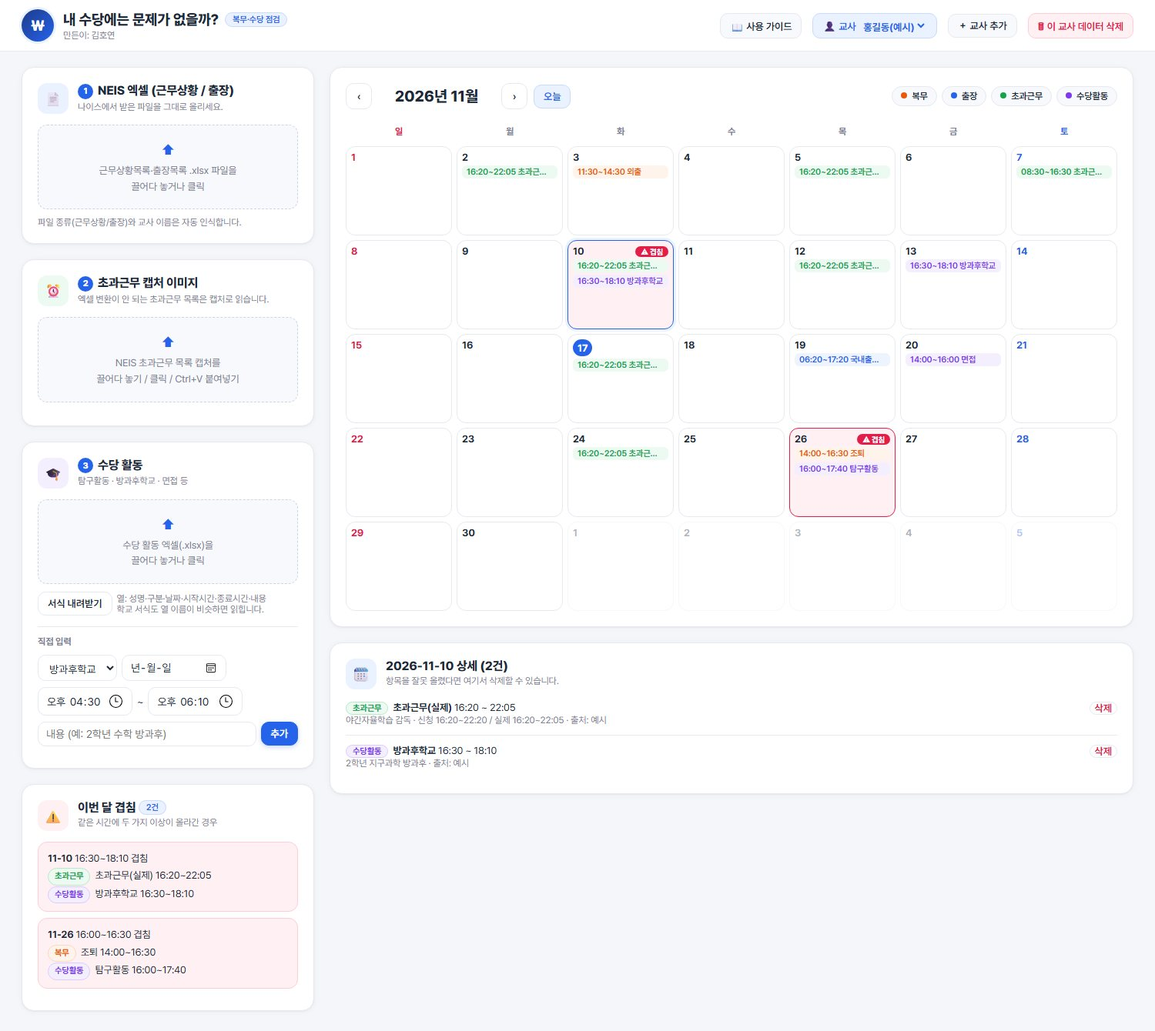
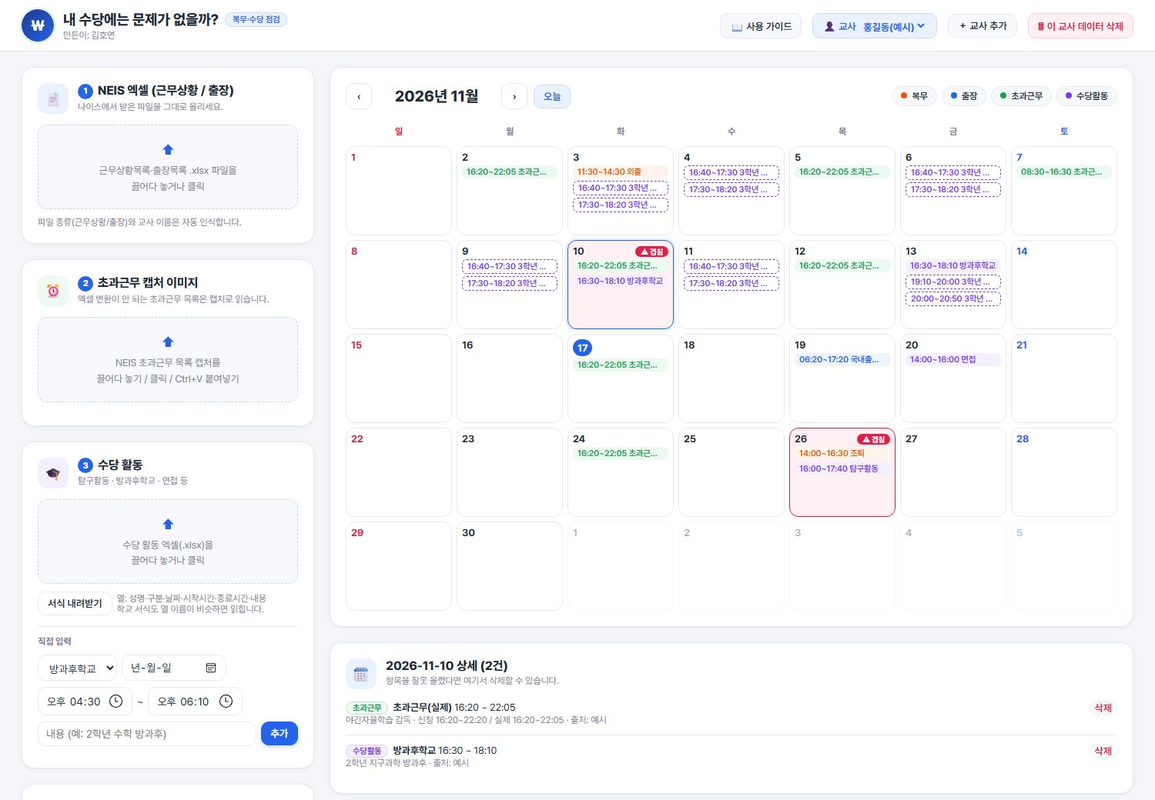
업로드

diff --git a/apps/sudang/index.html b/apps/sudang/index.html
@@ -103,6 +103,28 @@ td input:focus{background:var(--primary-soft);box-shadow:none}
 .hidden{display:none}
 footer{text-align:center;color:var(--muted);font-size:12px;padding:4px 0 24px}
 
+/* ---------- 차시 자동 배정 ---------- */
+.plan-grid{display:grid;grid-template-columns:repeat(2,minmax(0,1fr));gap:6px;margin-bottom:8px}
+.plan-grid label{font-size:11px;font-weight:700;color:var(--muted);display:flex;flex-direction:column;gap:3px}
+.plan-grid input{width:100%;padding:6px 6px}
+.dchk{display:inline-flex;align-items:center;justify-content:center;width:34px;height:30px;border:1px solid var(--line);border-radius:8px;font-size:12px;font-weight:700;cursor:pointer;user-select:none;background:#fff}
+.dchk input{display:none}
+.dchk.on{background:var(--primary);color:#fff;border-color:var(--primary)}
+.pl-sum{margin:14px 0 8px;padding:10px 12px;border-radius:12px;font-size:13px;line-height:1.6;background:var(--ot-bg);border:1px solid #bbe7c9}
+.pl-sum.short{background:var(--leave-bg);border-color:#fed7bd}
+.pl-list{max-height:260px;overflow-y:auto;margin-bottom:8px}
+.pl-list td{font-size:12px}
+details.pl-skip{font-size:12px;color:var(--muted);margin-bottom:10px}
+details.pl-skip summary{cursor:pointer;font-weight:700}
+details.pl-skip div{padding:2px 0 2px 10px}
+.chip.plan{background:#fff;border:1px dashed currentColor}
+.slot-box{border:1px solid var(--line);background:var(--soft);border-radius:12px;padding:10px;margin-bottom:8px}
+.slot-title{font-size:12px;font-weight:800;margin-bottom:6px}
+.slot{display:flex;align-items:center;gap:5px;margin-bottom:5px}
+.slot .snum{flex:none;font-size:11px;font-weight:800;color:var(--primary);background:var(--primary-soft);border-radius:999px;padding:2px 8px}
+.slot input{flex:1;min-width:0;padding:5px 6px}
+.slot .sdel{flex:none;width:28px;height:28px;padding:0;color:var(--muted)}
+
 /* ---------- 사용 가이드 ---------- */
 .modal{position:fixed;inset:0;z-index:50;background:rgba(15,23,42,.45);display:flex;align-items:flex-start;justify-content:center;padding:40px 16px;overflow-y:auto}
 .modal.hidden{display:none}
@@ -199,6 +221,37 @@ kbd{background:#fff;border:1px solid #cfd6e2;border-bottom-width:2px;border-radi
     </div>
 
     <div class="card">
+      <div class="card-head"><div class="ico green">🧩</div><div>
+        <h2><span class="step">4</span>차시 자동 배정</h2>
+        <p>복무·출장·초과근무·방과후와 겹치지 않는 날로 계획을 세웁니다.</p></div></div>
+      <div class="row">
+        <input id="plName" placeholder="프로그램 이름 (예: 면접 지도)" style="flex:1;min-width:0">
+        <select id="plType"><option>면접지도</option><option>탐구지도</option><option>방과후학교</option><option>기타</option></select>
+      </div>
+      <div class="plan-grid">
+        <label>총 차시<input type="number" id="plN" value="25" min="1" max="300"></label>
+        <label>1차시(분)<input type="number" id="plDur" value="50" min="10" max="300" step="5"></label>
+        <label>하루 최대<input type="number" id="plPerDay" value="1" min="1" max="10"></label>
+      </div>
+      <div class="slot-box">
+        <div class="slot-title">가능한 시간대 <span class="muted">(위에서부터 우선)</span></div>
+        <div id="plSlots"></div>
+        <button id="plAddSlot" style="width:100%;margin-top:4px">＋ 시간대 추가</button>
+        <div class="muted" style="margin-top:6px;line-height:1.6">· <b>끝을 비우면</b> 그 시각에 시작 (예: 16:40)<br>· <b>끝을 넣으면</b> 그 범위 안에서 10분 단위로 빈 시간을 찾음 (예: 16:30 ~ 21:00)</div>
+      </div>
+      <div class="row">
+        <input type="date" id="plFrom" style="flex:1;min-width:0"> ~ <input type="date" id="plTo" style="flex:1;min-width:0">
+      </div>
+      <div class="row" id="plDays"></div>
+      <div class="row">
+        <input id="plExclude" placeholder="제외할 날짜 (예: 2026-12-03, 12/10~12/12)" style="flex:1;min-width:0">
+      </div>
+      <label class="muted" style="display:block;margin-bottom:10px"><input type="checkbox" id="plWhole" style="vertical-align:-2px"> 일정이 하나라도 있는 날은 통째로 피하기</label>
+      <button class="primary" id="plRun" style="width:100%">자동 배정 미리보기</button>
+      <div id="plResult"></div>
+    </div>
+
+    <div class="card">
       <div class="card-head"><div class="ico red">⚠</div><div>
         <h2>이번 달 겹침 <span id="confCount" class="badge" style="vertical-align:2px"></span></h2>
         <p>같은 시간에 두 가지 이상이 올라간 경우</p></div></div>
@@ -264,6 +317,14 @@ kbd{background:#fff;border:1px solid #cfd6e2;border-bottom-width:2px;border-radi
       </div></div>
 
       <div class="g-step"><div class="num">6</div><div>
+        <h3>차시 자동 배정 (계획 세우기)</h3>
+        <p><b>④ 차시 자동 배정</b>에 프로그램 이름, 총 차시(예: 25), 1차시 시간, 기간, 요일, <b>가능한 시간대</b>를 넣고 <b>자동 배정 미리보기</b>를 누르세요.</p>
+        <p>이미 올린 <b>복무·출장·초과근무·방과후 등과 시간이 겹치지 않는 날</b>에만 차례로 배정됩니다. 시험·행사 날은 <b>제외할 날짜</b>에 적어 두세요.</p>
+        <p>시간대는 여러 개 넣을 수 있습니다. 예를 들어 <b>1안 16:40</b>, <b>2안 19:10</b>을 넣으면 16:40이 막힌 날은 19:10으로 배정합니다. 끝 시각까지 넣으면(예: 16:30 ~ 21:00) 그 범위 안에서 비어 있는 시간을 10분 단위로 찾아 줍니다.</p>
+        <p>결과가 괜찮으면 <b>달력에 추가</b>(점선으로 표시) 또는 <b>엑셀로 저장</b>을 누르세요. 지울 때는 날짜를 눌러 <b>이 계획 전체 삭제</b>를 누르면 됩니다.</p>
+      </div></div>
+
+      <div class="g-step"><div class="num">7</div><div>
         <h3>달력에서 겹침 확인</h3>
         <p>시간이 겹치는 날은 달력 칸이 <b style="color:var(--warn)">빨간색</b>이 되고 <b>⚠ 겹침</b> 표시가 붙습니다. 왼쪽 <b>이번 달 겹침</b>에서 몇 시부터 몇 시까지 겹치는지 볼 수 있고, 날짜를 누르면 상세 내용이 나옵니다.</p>
       </div></div>
@@ -653,7 +714,7 @@ function render(){
     const conf = conflictsOf(list);
     if (key.startsWith(prefix)) monthConf.push(...conf);
     if (k>=35 && d.getMonth()!==viewM) break;
-    const chips = list.map(i => `<span class="chip ${i.kind}" title="${esc(i.title+' '+i.memo)}">${i.allDay?'종일':i.start+'~'+(i.end==='24:00'?'':i.end)} ${esc(i.title)}</span>`).join('');
+    const chips = list.map(i => `<span class="chip ${i.kind} ${i.plan?'plan':''}" title="${esc(i.title+' '+i.memo)}">${i.allDay?'종일':i.start+'~'+(i.end==='24:00'?'':i.end)} ${esc(i.title)}</span>`).join('');
     html += `<div class="day ${d.getMonth()!==viewM?'other':''} ${conf.length?'conflict':''} ${key===selDate?'sel':''} ${key===ymd(new Date())?'today':''}" data-d="${key}">
       <div class="num"><span style="color:${d.getDay()===0?'var(--warn)':d.getDay()===6?'var(--trip)':''}">${d.getDate()}</span>${conf.length?'<span class="flag">⚠ 겹침</span>':''}</div>${chips}</div>`;
   }
@@ -676,8 +737,14 @@ function render(){
   dv.innerHTML = list.map(i => `<div class="detail-item">
       <span class="tag ${i.kind}">${KIND_LABEL[i.kind]}</span><b>${esc(i.title)}</b> ${i.allDay?'종일':i.start+' ~ '+i.end}
       <button class="danger" style="float:right;padding:0 6px" data-del="${i.id}">삭제</button>
+      ${i.planId ? `<button class="danger" style="float:right;padding:0 6px;margin-right:4px" data-delplan="${i.planId}">이 계획 전체 삭제</button>` : ''}
       <div class="muted">${esc(i.memo)} ${i.extra?'· '+esc(i.extra):''} · 출처: ${esc(i.source||'')}</div></div>`).join('')
       || '<div class="muted">등록된 내용이 없습니다.</div>';
+  dv.querySelectorAll('[data-delplan]').forEach(b => b.onclick = () => {
+    const pid = b.dataset.delplan, cnt = db.items.filter(x => x.planId === pid).length;
+    if (!confirm(`이 계획의 ${cnt}차시를 모두 달력에서 지울까요?`)) return;
+    db.items = db.items.filter(x => x.planId !== pid); save(); render();
+  });
   dv.querySelectorAll('[data-del]').forEach(b => b.onclick = () => {
     const it = db.items.find(x => x.id === b.dataset.del);
     db.items = db.items.filter(x => it.gid ? x.gid !== it.gid : x.id !== it.id);
@@ -730,6 +797,155 @@ document.getElementById('actAdd').onclick = () => {
     title: document.getElementById('actType').value, memo: document.getElementById('actMemo').value, source:'직접 입력' });
   save(); viewY=+d.slice(0,4); viewM=+d.slice(5,7)-1; selDate=d; render();
 };
+
+/* ===================== 차시 자동 배정 ===================== */
+const DOW = ['일','월','화','수','목','금','토'];
+(function initPlanForm(){
+  const t = new Date(); t.setDate(t.getDate()+1);
+  const e = new Date(t); e.setDate(e.getDate()+60);
+  document.getElementById('plFrom').value = ymd(t);
+  document.getElementById('plTo').value = ymd(e);
+  document.getElementById('plDays').innerHTML = DOW.map((d,i) =>
+    `<label class="dchk ${i>=1&&i<=5?'on':''}"><input type="checkbox" value="${i}" ${i>=1&&i<=5?'checked':''}>${d}</label>`).join('');
+  document.querySelectorAll('#plDays input').forEach(c => c.onchange = () => c.parentElement.classList.toggle('on', c.checked));
+  addSlot('16:40',''); addSlot('19:10','');
+})();
+
+function addSlot(s='', e=''){
+  const box = document.getElementById('plSlots');
+  box.insertAdjacentHTML('beforeend', `<div class="slot"><span class="snum"></span>
+    <input type="time" class="sS" value="${s}" title="시작"> ~ <input type="time" class="sE" value="${e}" title="끝 (비우면 그 시각에 시작)">
+    <button class="sdel" title="삭제">✕</button></div>`);
+  renumberSlots();
+}
+function renumberSlots(){
+  document.querySelectorAll('#plSlots .slot').forEach((el,i) => {
+    el.querySelector('.snum').textContent = `${i+1}안`;
+    el.querySelector('.sdel').onclick = () => { el.remove(); renumberSlots(); };
+  });
+}
+document.getElementById('plAddSlot').onclick = () => addSlot('', '');
+
+/* 시간대 목록 → [{s,e}] (e 없으면 고정 시작) */
+function readSlots(){
+  return [...document.querySelectorAll('#plSlots .slot')].map(el => ({
+    s: el.querySelector('.sS').value, e: el.querySelector('.sE').value
+  })).filter(x => x.s && (!x.e || x.e > x.s));
+}
+/* 한 시간대에서 k차시를 넣어볼 시작 후보 (분) */
+function slotStarts(slot, len){
+  const s = toMin(slot.s);
+  if (!slot.e) return [s];
+  const e = toMin(slot.e), out = [];
+  for (let t = s; t + len <= e; t += 10) out.push(t);
+  return out;
+}
+
+/* "2026-12-03, 12/10~12/12" → 날짜 Set */
+function parseExclude(text){
+  const set = new Set();
+  for (const part of String(text).split(/[,\n]/)){
+    const [a,b] = part.split('~').map(s => s && s.trim());
+    if (!a) continue;
+    const sd = xlDate(a); if (!sd) continue;
+    let ed = b ? xlDate(b) : sd;
+    if (b && !ed) ed = sd;
+    const d = new Date(sd+'T00:00'), end = new Date(ed+'T00:00');
+    for (let g=0; d<=end && g<400; g++){ set.add(ymd(d)); d.setDate(d.getDate()+1); }
+  }
+  return set;
+}
+
+function planSchedule(o){
+  const byDate = {};
+  teacherItems().forEach(i => (byDate[i.date] ||= []).push(i));
+  const out = [], skipped = [];
+  let left = o.n;
+  const d = new Date(o.from+'T00:00'), end = new Date(o.to+'T00:00');
+  for (let g=0; d<=end && left>0 && g<1000; g++, d.setDate(d.getDate()+1)){
+    const key = ymd(d);
+    if (!o.days.includes(d.getDay())) continue;
+    if (o.exclude.has(key)){ skipped.push({ date:key, why:'제외 날짜' }); continue; }
+    const list = byDate[key] || [];
+    if (o.whole && list.length){ skipped.push({ date:key, why: list.map(i => `${KIND_LABEL[i.kind]} ${i.title}`).join(', ') }); continue; }
+    // 하루 최대 차시부터 줄여가며, 1안 → 2안 … 순서로 들어갈 수 있는 첫 시간을 찾음
+    let placed = false, lastHit = null;
+    for (let k=Math.min(o.perDay,left); k>=1 && !placed; k--){
+      const len = k*o.dur;
+      for (let si=0; si<o.slots.length && !placed; si++){
+        for (const s of slotStarts(o.slots[si], len)){
+          const e = s + len;
+          if (e > 1440) break;
+          const hit = list.find(i => Math.max(s, toMin(i.start)) < Math.min(e, toMin(i.end)));
+          if (hit){ lastHit = hit; continue; }
+          for (let j=0;j<k;j++) out.push({ no:o.n-left+1+j, date:key, slot:si+1, start:fromMin(s+j*o.dur), end:fromMin(s+(j+1)*o.dur) });
+          left -= k; placed = true; break;
+        }
+      }
+    }
+    if (!placed) skipped.push({ date:key, why: lastHit ? `${KIND_LABEL[lastHit.kind]} ${lastHit.title} ${lastHit.start}~${lastHit.end}` : '시간대에 차시가 들어갈 자리 없음' });
+  }
+  return { out, skipped, left };
+}
+
+let lastPlan = null;
+function runPlan(){
+  if (!db.current) return alert('먼저 교사를 추가하세요');
+  const v = id => document.getElementById(id).value;
+  const o = {
+    name: v('plName').trim() || v('plType'), type: v('plType'),
+    n: Math.max(1, +v('plN')||0), dur: Math.max(10, +v('plDur')||0), perDay: Math.max(1, +v('plPerDay')||1),
+    slots: readSlots(), from: v('plFrom'), to: v('plTo'),
+    days: [...document.querySelectorAll('#plDays input:checked')].map(c => +c.value),
+    exclude: parseExclude(v('plExclude')), whole: document.getElementById('plWhole').checked
+  };
+  if (!o.from || !o.to || o.from > o.to) return alert('기간을 확인하세요');
+  if (!o.days.length) return alert('요일을 하나 이상 고르세요');
+  if (!o.slots.length) return alert('가능한 시간대를 하나 이상 넣으세요 (범위는 끝이 시작보다 늦어야 합니다)');
+  const r = planSchedule(o);
+  lastPlan = { o, ...r };
+  const box = document.getElementById('plResult');
+  const first = r.out[0], last = r.out[r.out.length-1];
+  const dw = k => DOW[new Date(k+'T00:00').getDay()];
+  box.innerHTML = `
+    <div class="pl-sum ${r.left?'short':''}">
+      <b>${esc(o.name)}</b> ${o.n}차시 중 <b>${r.out.length}차시</b> 배정
+      ${first ? `<br>${first.date.slice(5)}(${dw(first.date)}) ~ ${last.date.slice(5)}(${dw(last.date)}), ${new Set(r.out.map(x=>x.date)).size}일` : ''}
+      ${r.left ? `<br>⚠ 기간 안에 빈 날이 부족해 <b>${r.left}차시</b>를 배정하지 못했습니다. 기간을 늘리거나 하루 최대 차시·요일을 바꿔보세요.` : ''}
+    </div>
+    ${r.out.length ? `<div class="pl-list"><table><thead><tr><th>차시</th><th>날짜</th><th>시간</th><th>안</th></tr></thead><tbody>
+      ${r.out.map(x => `<tr><td>${x.no}</td><td>${x.date}(${dw(x.date)})</td><td>${x.start}~${x.end}</td><td>${x.slot}안</td></tr>`).join('')}
+    </tbody></table></div>` : ''}
+    ${r.skipped.length ? `<details class="pl-skip"><summary>피한 날 ${r.skipped.length}일 보기</summary>
+      ${r.skipped.map(s => `<div>${s.date.slice(5)}(${dw(s.date)}) · ${esc(s.why)}</div>`).join('')}</details>` : ''}
+    ${r.out.length ? `<div class="row"><button class="primary" id="plApply" style="flex:1">달력에 추가</button><button id="plXlsx">엑셀로 저장</button></div>` : ''}`;
+  if (!r.out.length) return;
+  document.getElementById('plApply').onclick = applyPlan;
+  document.getElementById('plXlsx').onclick = exportPlan;
+}
+
+function applyPlan(){
+  if (!lastPlan) return;
+  const { o, out } = lastPlan, planId = uid();
+  out.forEach(x => db.items.push({ id:uid(), planId, plan:true, teacher:db.current, kind:'act', date:x.date, start:x.start, end:x.end,
+    title:o.name, memo:`${o.type} ${x.no}/${o.n}차시 (자동 배정 계획)`, source:'차시 자동 배정' }));
+  save();
+  viewY = +out[0].date.slice(0,4); viewM = +out[0].date.slice(5,7)-1; selDate = out[0].date;
+  render();
+  document.getElementById('plResult').innerHTML = `<div class="pl-sum">✔ ${out.length}차시를 달력에 추가했습니다. 점선 표시가 계획입니다.<br>지우려면 날짜를 눌러 <b>이 계획 전체 삭제</b>를 누르세요.</div>`;
+  lastPlan = null;
+}
+
+function exportPlan(){
+  const { o, out } = lastPlan;
+  const aoa = [['차시','날짜','요일','시작','종료','프로그램','구분','담당']];
+  out.forEach(x => aoa.push([x.no, x.date, DOW[new Date(x.date+'T00:00').getDay()], x.start, x.end, o.name, o.type, db.current]));
+  const ws = XLSX.utils.aoa_to_sheet(aoa);
+  ws['!cols'] = [{wch:6},{wch:12},{wch:6},{wch:8},{wch:8},{wch:20},{wch:10},{wch:10}];
+  const wb = XLSX.utils.book_new(); XLSX.utils.book_append_sheet(wb, ws, '차시 계획');
+  XLSX.writeFile(wb, `${o.name} ${o.n}차시 계획.xlsx`);
+}
+document.getElementById('plRun').onclick = runPlan;
 
 /* 사용 가이드: 처음 열 때 자동 표시 */
 const GKEY = 'sudang-guide-hide';

diff --git a/tools/sudang-guide.html b/tools/sudang-guide.html
@@ -49,12 +49,16 @@
           NEIS의 <b class="text-white">근무상황(연가·조퇴·외출) · 출장 · 초과근무</b>와 <b class="text-white">방과후학교 · 탐구활동 · 면접</b> 같은 수당 활동을 한 달력에 모아,
           <b class="text-white">같은 시간에 겹친 기록</b>이 있는지 빨간색으로 알려 주는 점검 프로그램입니다. 수당 정산 전에 한 번 확인해 보세요.
         </p>
+        <p class="inline-flex items-start gap-2 text-sm bg-white/10 border border-white/15 rounded-2xl px-4 py-3 text-slate-200 break-keep max-w-2xl">
+          <span class="px-2 py-0.5 rounded-md bg-emerald-400 text-slate-950 text-[11px] font-black shrink-0">NEW ver.02</span>
+          <span><b class="text-white">차시 자동 배정</b> — 면접·탐구 지도처럼 여러 차시로 운영하는 프로그램을, 이미 있는 일정과 겹치지 않는 날로 자동 계획해 줍니다. <a href="#s5" class="underline font-bold text-emerald-300">자세히 보기</a></span>
+        </p>
         <div class="flex flex-wrap gap-3 pt-2">
           <a href="../apps/sudang/index.html" target="_blank" rel="noopener" class="px-6 py-4 rounded-2xl bg-rose-500 hover:bg-rose-400 text-white font-black text-sm transition shadow-lg shadow-rose-500/30 inline-flex items-center gap-2">
             <i data-lucide="play" class="w-5 h-5"></i>프로그램 바로 열기
           </a>
           <a href="../downloads/proctor/%EC%88%98%EB%8B%B9%EA%B4%80%EB%A6%AC_app.zip" download="수당관리_app.zip" class="px-5 py-4 rounded-2xl bg-white/10 hover:bg-white/20 border border-white/15 font-bold text-sm transition inline-flex items-center gap-2">
-            <i data-lucide="download" class="w-4 h-4"></i>파일 받기 (zip · 14KB)
+            <i data-lucide="download" class="w-4 h-4"></i>파일 받기 (zip · 18KB)
           </a>
         </div>
       </div>
@@ -71,7 +75,8 @@
         <a href="#s2" class="block px-3 py-2 rounded-lg text-slate-600 hover:bg-slate-100 font-semibold">2. 근무상황 · 출장 엑셀</a>
         <a href="#s3" class="block px-3 py-2 rounded-lg text-slate-600 hover:bg-slate-100 font-semibold">3. 초과근무 캡처</a>
         <a href="#s4" class="block px-3 py-2 rounded-lg text-slate-600 hover:bg-slate-100 font-semibold">4. 수당 활동 입력</a>
-        <a href="#s5" class="block px-3 py-2 rounded-lg text-slate-600 hover:bg-slate-100 font-semibold">5. 겹침 확인</a>
+        <a href="#s5" class="block px-3 py-2 rounded-lg text-slate-600 hover:bg-slate-100 font-semibold">5. 차시 자동 배정 <span class="text-[10px] font-black text-emerald-600">NEW</span></a>
+        <a href="#s6" class="block px-3 py-2 rounded-lg text-slate-600 hover:bg-slate-100 font-semibold">6. 겹침 확인</a>
         <a href="#notice" class="block px-3 py-2 rounded-lg text-slate-600 hover:bg-slate-100 font-semibold">알아두세요</a>
       </nav>
     </aside>
@@ -84,7 +89,7 @@
           <h2 class="text-2xl sm:text-3xl font-black text-slate-900 mt-1">한눈에 보기</h2>
           <p class="text-slate-600 mt-2 leading-relaxed break-keep">왼쪽에서 자료를 올리면 오른쪽 달력에 색깔별로 쌓이고, 시간이 겹치는 날은 <b class="text-rose-600">⚠ 겹침</b>으로 표시됩니다.</p>
         </div>
-        <figure><img src="../assets/programs/sudang/screen_main.jpg" alt="수당 점검 프로그램 전체 화면" class="shot" loading="lazy"><figcaption class="text-xs text-slate-500 mt-2 text-center">전체 화면 (가상의 예시 자료) — 11월 10일과 26일에 겹침이 발견된 모습</figcaption></figure>
+        <figure><img src="../assets/programs/sudang/screen_main.jpg" alt="수당 점검 프로그램 전체 화면" class="shot" loading="lazy"><figcaption class="text-xs text-slate-500 mt-2 text-center">전체 화면 (가상의 예시 자료) — 11월 10일과 26일에 겹침이 발견되고, 점선으로 면접 지도 계획이 들어간 모습</figcaption></figure>
         <div class="grid sm:grid-cols-4 gap-3 text-sm">
           <div class="bg-white border border-slate-200 rounded-2xl p-4 break-keep"><span class="inline-block w-2.5 h-2.5 rounded-full bg-orange-500 mr-1"></span><b>복무</b><p class="text-slate-600 mt-1">연가·조퇴·지각·외출 (NEIS 엑셀)</p></div>
           <div class="bg-white border border-slate-200 rounded-2xl p-4 break-keep"><span class="inline-block w-2.5 h-2.5 rounded-full bg-blue-600 mr-1"></span><b>출장</b><p class="text-slate-600 mt-1">관내·관외 출장 (NEIS 엑셀)</p></div>
@@ -149,7 +154,28 @@
 
       <section id="s5" class="space-y-5">
         <div>
-          <div class="text-xs font-black tracking-widest text-rose-600 uppercase">Step 5</div>
+          <div class="text-xs font-black tracking-widest text-rose-600 uppercase">Step 5 · <span class="text-emerald-600">NEW ver.02</span></div>
+          <h2 class="text-2xl sm:text-3xl font-black text-slate-900 mt-1">차시 자동 배정 — 겹치지 않는 날로 계획 세우기</h2>
+          <p class="text-slate-600 mt-2 leading-relaxed break-keep">면접 지도 12차시, 탐구 지도 25차시처럼 <b>여러 번에 나눠 운영하는 프로그램</b>을 계획할 때 쓰는 기능입니다. 이미 올린 <b>복무·출장·초과근무·방과후 등과 시간이 겹치지 않는 날</b>만 골라 차례로 배정해 주니, 처음부터 겹침 없는 계획을 세울 수 있어요.</p>
+        </div>
+        <div class="grid md:grid-cols-[1fr_380px] gap-8 items-start">
+          <div class="space-y-4">
+            <div class="flex gap-3"><div class="step-num bg-emerald-600 text-white">1</div><div class="text-sm text-slate-700 leading-relaxed break-keep"><b>④ 차시 자동 배정</b> 칸에 <b>프로그램 이름</b>과 구분(면접지도·탐구지도·방과후학교·기타)을 고릅니다.</div></div>
+            <div class="flex gap-3"><div class="step-num bg-emerald-600 text-white">2</div><div class="text-sm text-slate-700 leading-relaxed break-keep"><b>총 차시</b>(예: 12), <b>1차시 시간</b>(분, 예: 50), <b>하루 최대 차시</b>(예: 2)를 넣습니다. 하루 최대를 2로 하면 가능한 날에는 2차시를 이어서 배정하고, 자리가 부족하면 1차시만 넣어요.</div></div>
+            <div class="flex gap-3"><div class="step-num bg-emerald-600 text-white">3</div><div class="text-sm text-slate-700 leading-relaxed break-keep"><b>가능한 시간대</b>를 우선순위대로 넣습니다. 예: <b>1안 16:40</b>, <b>2안 19:10</b> → 16:40이 막힌 날은 19:10으로 배정합니다.<br>
+              · <b>끝을 비우면</b> 그 시각에 바로 시작<br>· <b>끝까지 넣으면</b>(예: 16:30 ~ 21:00) 그 범위 안에서 비어 있는 시간을 10분 단위로 찾아 줍니다.</div></div>
+            <div class="flex gap-3"><div class="step-num bg-emerald-600 text-white">4</div><div class="text-sm text-slate-700 leading-relaxed break-keep"><b>기간</b>과 <b>요일</b>을 고르고, 시험·행사 날은 <b>제외할 날짜</b>에 적습니다. (예: <code>2026-12-03, 12/10~12/12</code>) 일정이 하나라도 있는 날을 아예 피하고 싶으면 <b>통째로 피하기</b>에 체크하세요.</div></div>
+            <div class="flex gap-3"><div class="step-num bg-emerald-600 text-white">5</div><div class="text-sm text-slate-700 leading-relaxed break-keep"><span class="kbd">자동 배정 미리보기</span>를 누르면 차시별 날짜·시간·몇 안으로 들어갔는지 표가 나오고, <b>피한 날</b>과 그 이유(어떤 일정과 겹쳤는지)도 볼 수 있어요. 기간 안에 다 못 넣으면 몇 차시가 남았는지 알려 줍니다.</div></div>
+            <div class="flex gap-3"><div class="step-num bg-emerald-600 text-white">6</div><div class="text-sm text-slate-700 leading-relaxed break-keep">결과가 괜찮으면 <span class="kbd">달력에 추가</span>(달력에 <b>점선</b>으로 표시) 또는 <span class="kbd">엑셀로 저장</span>(차시·날짜·요일·시작·종료·프로그램·구분·담당)을 누릅니다. 계획을 지우려면 달력에서 그 날짜를 눌러 <span class="kbd">이 계획 전체 삭제</span>.</div></div>
+          </div>
+          <figure><img src="../assets/programs/sudang/screen_plan.jpg" alt="차시 자동 배정 칸과 미리보기 결과" class="shot" loading="lazy"><figcaption class="text-xs text-slate-500 mt-2 text-center">④ 차시 자동 배정 — 12차시 미리보기 (예시)</figcaption></figure>
+        </div>
+        <figure><img src="../assets/programs/sudang/screen_plan_calendar.jpg" alt="달력에 추가된 차시 계획" class="shot" loading="lazy"><figcaption class="text-xs text-slate-500 mt-2 text-center">달력에 추가된 계획(점선). 초과근무가 있는 2·5·10·12일은 피하고, 방과후가 있는 13일은 2안(19:10)으로 들어갔어요.</figcaption></figure>
+      </section>
+
+      <section id="s6" class="space-y-5">
+        <div>
+          <div class="text-xs font-black tracking-widest text-rose-600 uppercase">Step 6</div>
           <h2 class="text-2xl sm:text-3xl font-black text-slate-900 mt-1">달력에서 겹침 확인</h2>
         </div>
         <div class="grid md:grid-cols-[380px_1fr] gap-8 items-start">

diff --git a/data/items.js b/data/items.js
@@ -1063,9 +1063,9 @@ const archiveItems = [
     "unitSeq": "APP",
     "lessonUrl": "tools/sudang-guide.html",
     "title": "[교사 직접 개발] 내 수당에는 문제가 없을까? — 복무·수당 점검 프로그램",
-    "date": "2026.11 웹앱 배포",
+    "date": "2026.11 ver.02 업데이트",
     "year": "2026",
-    "summary": "NEIS 근무상황·출장 엑셀과 초과근무 목록 캡처, 방과후·탐구활동·면접 같은 수당 활동을 한 달력에 모아 같은 시간에 겹친 기록이 있는지 찾아 줍니다. 초과근무 캡처는 글자 인식으로 읽고, 모든 자료는 내 컴퓨터의 브라우저에만 저장됩니다.",
+    "summary": "NEIS 근무상황·출장 엑셀과 초과근무 목록 캡처, 방과후·탐구활동·면접 같은 수당 활동을 한 달력에 모아 같은 시간에 겹친 기록이 있는지 찾아 줍니다. ver.02에서는 면접·탐구 지도처럼 여러 차시로 운영하는 프로그램을 겹치지 않는 날로 자동 계획하는 '차시 자동 배정'이 추가되었습니다.",
     "tags": [
       "AI활용도구",
       "수당점검",
@@ -1089,7 +1089,7 @@ const archiveItems = [
         "icon": "external-link"
       }
     ],
-    "content": "### 💡 프로그램 소개\n수당 정산 전에 **복무·출장·초과근무·수당 활동이 같은 시간에 겹치지 않았는지** 달력으로 점검하는 웹 프로그램입니다. 설치 없이 브라우저에서 바로 쓰고, 모든 자료는 사용하는 컴퓨터의 브라우저에만 저장됩니다.\n\n[▶ 프로그램 열기](apps/sudang/index.html) · [📘 사용 가이드](tools/sudang-guide.html)\n\n![겹침이 표시된 달력](assets/programs/sudang/screen_calendar.jpg)\n\n### 🌟 주요 기능\n1. **NEIS 엑셀 자동 인식** — 개인근무상황관리·개인출장관리에서 받은 엑셀을 그대로 올리면 종류와 이름을 알아서 구분합니다.\n2. **초과근무 캡처 글자 인식** — 엑셀로 받을 수 없는 초과근무 목록은 화면을 캡처해 붙여 넣으면 표로 읽어 줍니다.\n3. **수당 활동 입력** — 방과후학교·탐구활동·면접 등을 서식 엑셀로 올리거나 직접 입력합니다.\n4. **겹침 달력** — 시간이 겹치는 날은 빨간색과 ⚠ 표시로, 몇 시부터 몇 시까지 겹치는지 목록으로 보여 줍니다.\n\n*화면의 자료는 모두 가상의 예시입니다.*\n"
+    "content": "### 💡 프로그램 소개\n수당 정산 전에 **복무·출장·초과근무·수당 활동이 같은 시간에 겹치지 않았는지** 달력으로 점검하는 웹 프로그램입니다. 설치 없이 브라우저에서 바로 쓰고, 모든 자료는 사용하는 컴퓨터의 브라우저에만 저장됩니다.\n\n[▶ 프로그램 열기](apps/sudang/index.html) · [📘 사용 가이드](tools/sudang-guide.html)\n\n![겹침이 표시된 달력](assets/programs/sudang/screen_calendar.jpg)\n\n### 🌟 주요 기능\n1. **NEIS 엑셀 자동 인식** — 개인근무상황관리·개인출장관리에서 받은 엑셀을 그대로 올리면 종류와 이름을 알아서 구분합니다.\n2. **초과근무 캡처 글자 인식** — 엑셀로 받을 수 없는 초과근무 목록은 화면을 캡처해 붙여 넣으면 표로 읽어 줍니다.\n3. **수당 활동 입력** — 방과후학교·탐구활동·면접 등을 서식 엑셀로 올리거나 직접 입력합니다.\n4. **🆕 차시 자동 배정 (ver.02)** — 프로그램 이름, 총 차시, 1차시 시간, 하루 최대 차시, 가능한 시간대(1안·2안…), 기간·요일·제외 날짜를 넣으면 이미 있는 복무·출장·초과근무·방과후와 겹치지 않는 날로 차례로 배정합니다. 미리보기 후 달력에 추가(점선 표시)하거나 엑셀로 저장할 수 있습니다.\n![차시 자동 배정 결과](assets/programs/sudang/screen_plan_calendar.jpg)\n5. **겹침 달력** — 시간이 겹치는 날은 빨간색과 ⚠ 표시로, 몇 시부터 몇 시까지 겹치는지 목록으로 보여 줍니다.\n\n*화면의 자료는 모두 가상의 예시입니다.*\n"
   },
   {
     "id": "tool-random-picker",

diff --git a/index.html b/index.html
@@ -995,6 +995,10 @@
               NEIS <strong class="text-slate-900">근무상황 · 출장 · 초과근무</strong>와 <strong class="text-slate-900">방과후 · 탐구활동 · 면접</strong> 같은 수당 활동을 한 달력에 모아,
               <strong class="text-slate-900">같은 시간에 겹친 기록</strong>을 빨간색으로 찾아 줍니다. 초과근무 목록은 화면 캡처를 글자 인식으로 읽어요.
             </p>
+            <div class="flex items-start gap-2 text-sm bg-emerald-50 border border-emerald-100 rounded-2xl px-4 py-3 text-emerald-900 break-keep">
+              <span class="px-2 py-0.5 rounded-md bg-emerald-600 text-white text-[11px] font-black shrink-0">NEW ver.02</span>
+              <span><b>차시 자동 배정</b> — 면접·탐구 지도처럼 여러 차시로 운영하는 프로그램을 기존 일정과 겹치지 않는 날로 자동 계획하고, 달력 추가·엑셀 저장까지 할 수 있어요.</span>
+            </div>
             <div class="flex flex-wrap items-center gap-3 pt-2">
               <a href="apps/sudang/index.html" target="_blank" rel="noopener"
                 class="px-6 py-4 rounded-2xl bg-rose-600 hover:bg-rose-700 text-white font-black text-sm tracking-wide transition shadow-lg shadow-rose-600/25 flex items-center gap-2.5">
